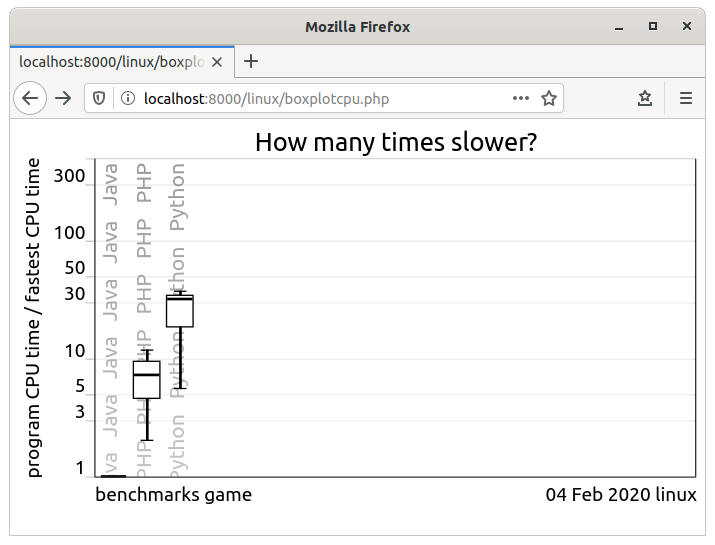
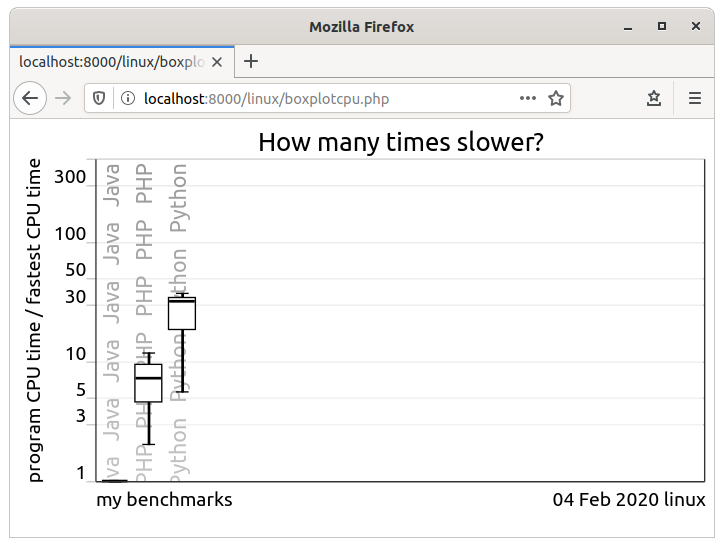
add mybenchmarks chart

diff --git a/mybenchmarks/lib/lib_chartSVG.php b/mybenchmarks/lib/lib_chartSVG.php
@@ -80,7 +80,7 @@ class Chart {
       $x = $this->w;
       echo '<g style="text-anchor: end; font-family: Ubuntu,Verdana,sans-serif; font-size: 0.9em;" >', "\n"; 
       echo '<text x="', $x, '" y="', $this->h - 6, '" >', $label, "</text>\n"; 
-      echo '<text x="', $this->xo, '" y="', $this->h - 6, '" style="text-anchor: start;" >', "benchmarks game", "</text>\n"; 
+      echo '<text x="', $this->xo, '" y="', $this->h - 6, '" style="text-anchor: start;" >', "my benchmarks", "</text>\n"; 
       echo "</g>\n";
       return $x;
    }
